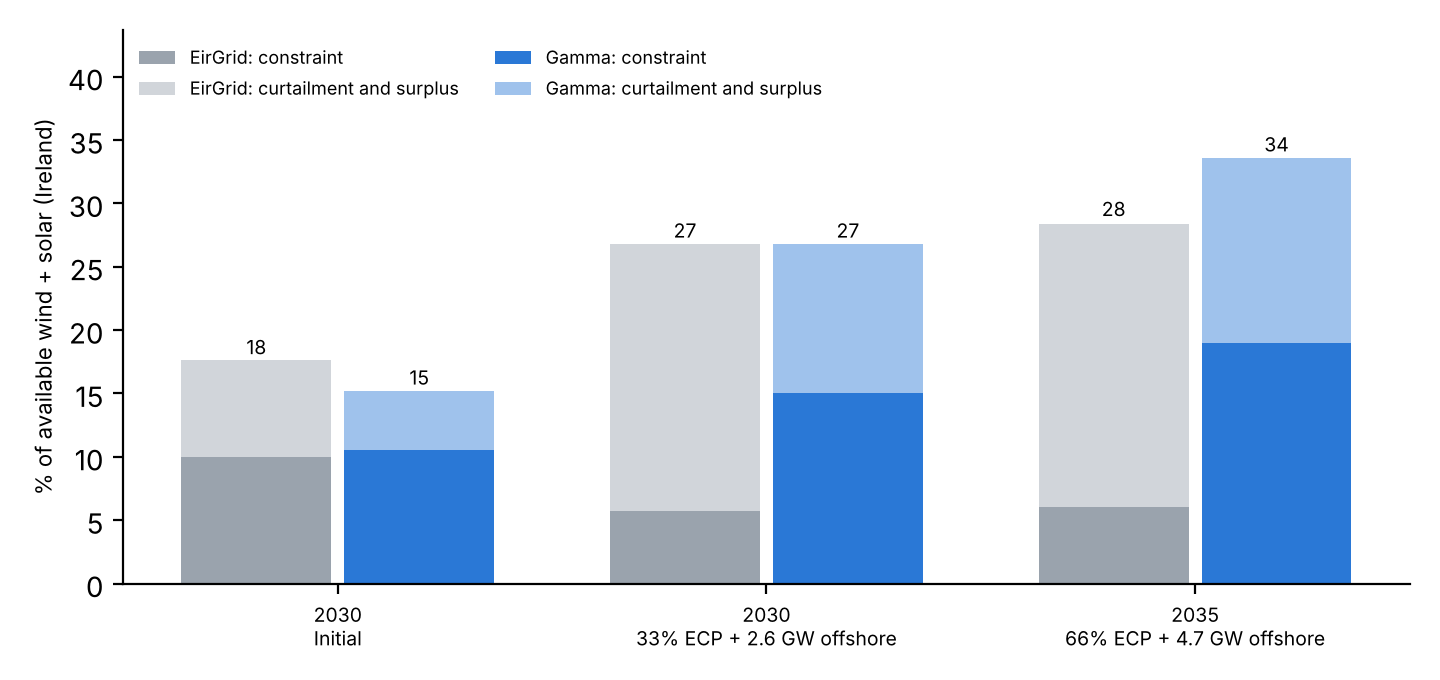
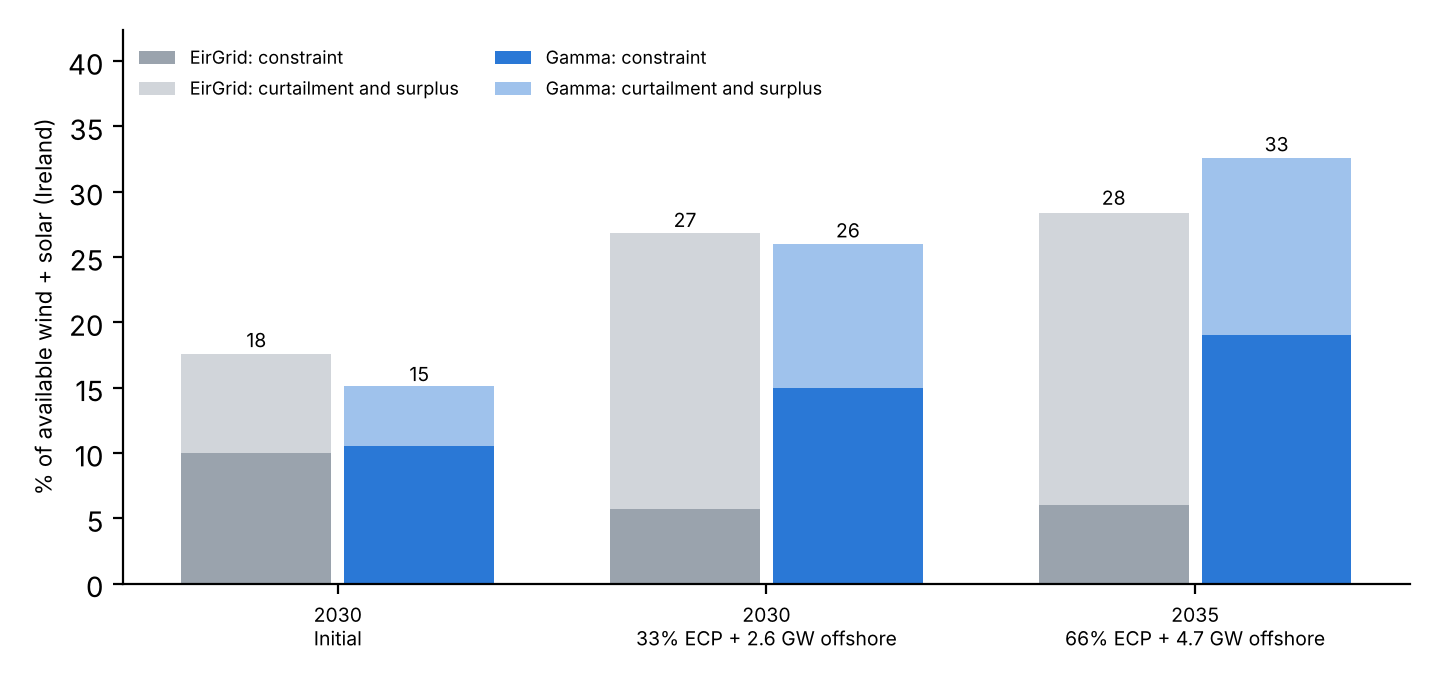
Rerun on the delivered residual basis: validation, GSS-2 prediction (revision kept alongside the original), changelog
Claude-Session: https://claude.ai/code/session_011KZyodWibR39Wz6yBxXJrb

diff --git a/CHANGELOG.md b/CHANGELOG.md
@@ -11,6 +11,27 @@ The full methodology is in `Technical_Briefing_README.docx`.
 4. Validation against EirGrid: `python analysis/eirgrid_validation.py` (after step 3). Optional analyses: `python analysis/weather_dunkelflaute.py` and `python analysis/ni_constraint_drivers.py`. Outputs in `analysis/output/`.
 5. To rebuild the hourly dispatch-down files from new EirGrid/SONI `DD-HH-<year>.xlsx` workbooks, use `build_all_island_dd.py` (not in this repository yet).
 
+## Residual curtailment on the delivered basis; sensitivity study: 30 October 2026
+
+Group decision: the corrected residual curtailment is now the default (PRs #24 and #25 merged).
+- Residual curtailment κ (the recorded high frequency and minimum generation curtailment the rules do not simulate) was a fixed share of available energy. That share grew without limit as capacity was added, so in faster-build runs adding wind and solar reduced delivered output. It is now the same 2026 energy, held in later years as a share of the energy the operating rules would otherwise deliver. 2026 results are identical. `GAMMA_RESIDUAL_BASIS=available` reproduces the old basis.
+- Heat and transport demand now stops growing once those sectors are fully electrified (no effect on the paper's scenarios, which stay below the caps).
+- New `analysis/sensitivity_study.py`: heat and transport electrification pace, and wind, solar and battery build rate, each +50%, +100% and +150% on EirGrid_Extended; tables and charts in `analysis/output/sensitivity/` (old basis in `sensitivity_available/`).
+- Effect on the paper's results (old → new):
+
+| Result | Old | New |
+|---|---|---|
+| EirGrid validation, Gamma total 2030 Initial / 2030 / 2035 (% IE) | 15.2 / 26.8 / 33.6 | 15.0 / 26.0 / 32.6 |
+| Largest difference from EirGrid (points) | 5.1 | 4.1 |
+| 40% reinforcement, 2035 total (% IE; EirGrid 28.5) | 28.3 | 27.5 |
+| GSS-2 central prediction, 100% ECP / with offshore (% IE) | 23.4 / 34.2 | 22.6 / 33.0 |
+| EirGrid_Extended fossil share 2050 / 2100 (%) | 67.3 / 38.9 | 66.3 / 34.4 |
+| Historical_Trend fossil share 2050 / 2100 (%) | 74.6 / 63.8 | 74.4 / 62.9 |
+| EirGrid_Extended dispatch down 2050 / 2100 (%) | 44.2 / 59.4 | 42.5 / 56.8 |
+| Firm capacity 2050 / 2100 (GW) | 12.7 / 21.3 | unchanged |
+
+- `analysis/gss2_prediction_2035.csv` keeps the 28 October prediction and adds the revised rows, both made before EirGrid publishes.
+
 ## ECP-GSS-2 prediction: 28 October 2026
 
 - GSS-2 assumptions (Q4 2026) and generation list (data freeze 2 October 2026) added: `Data_inputs/ECP-GSS-2-IE-Generation-List.xlsx`. EirGrid publishes GSS-2 results on 15 December 2026; until then validation stays on GSS-1.
